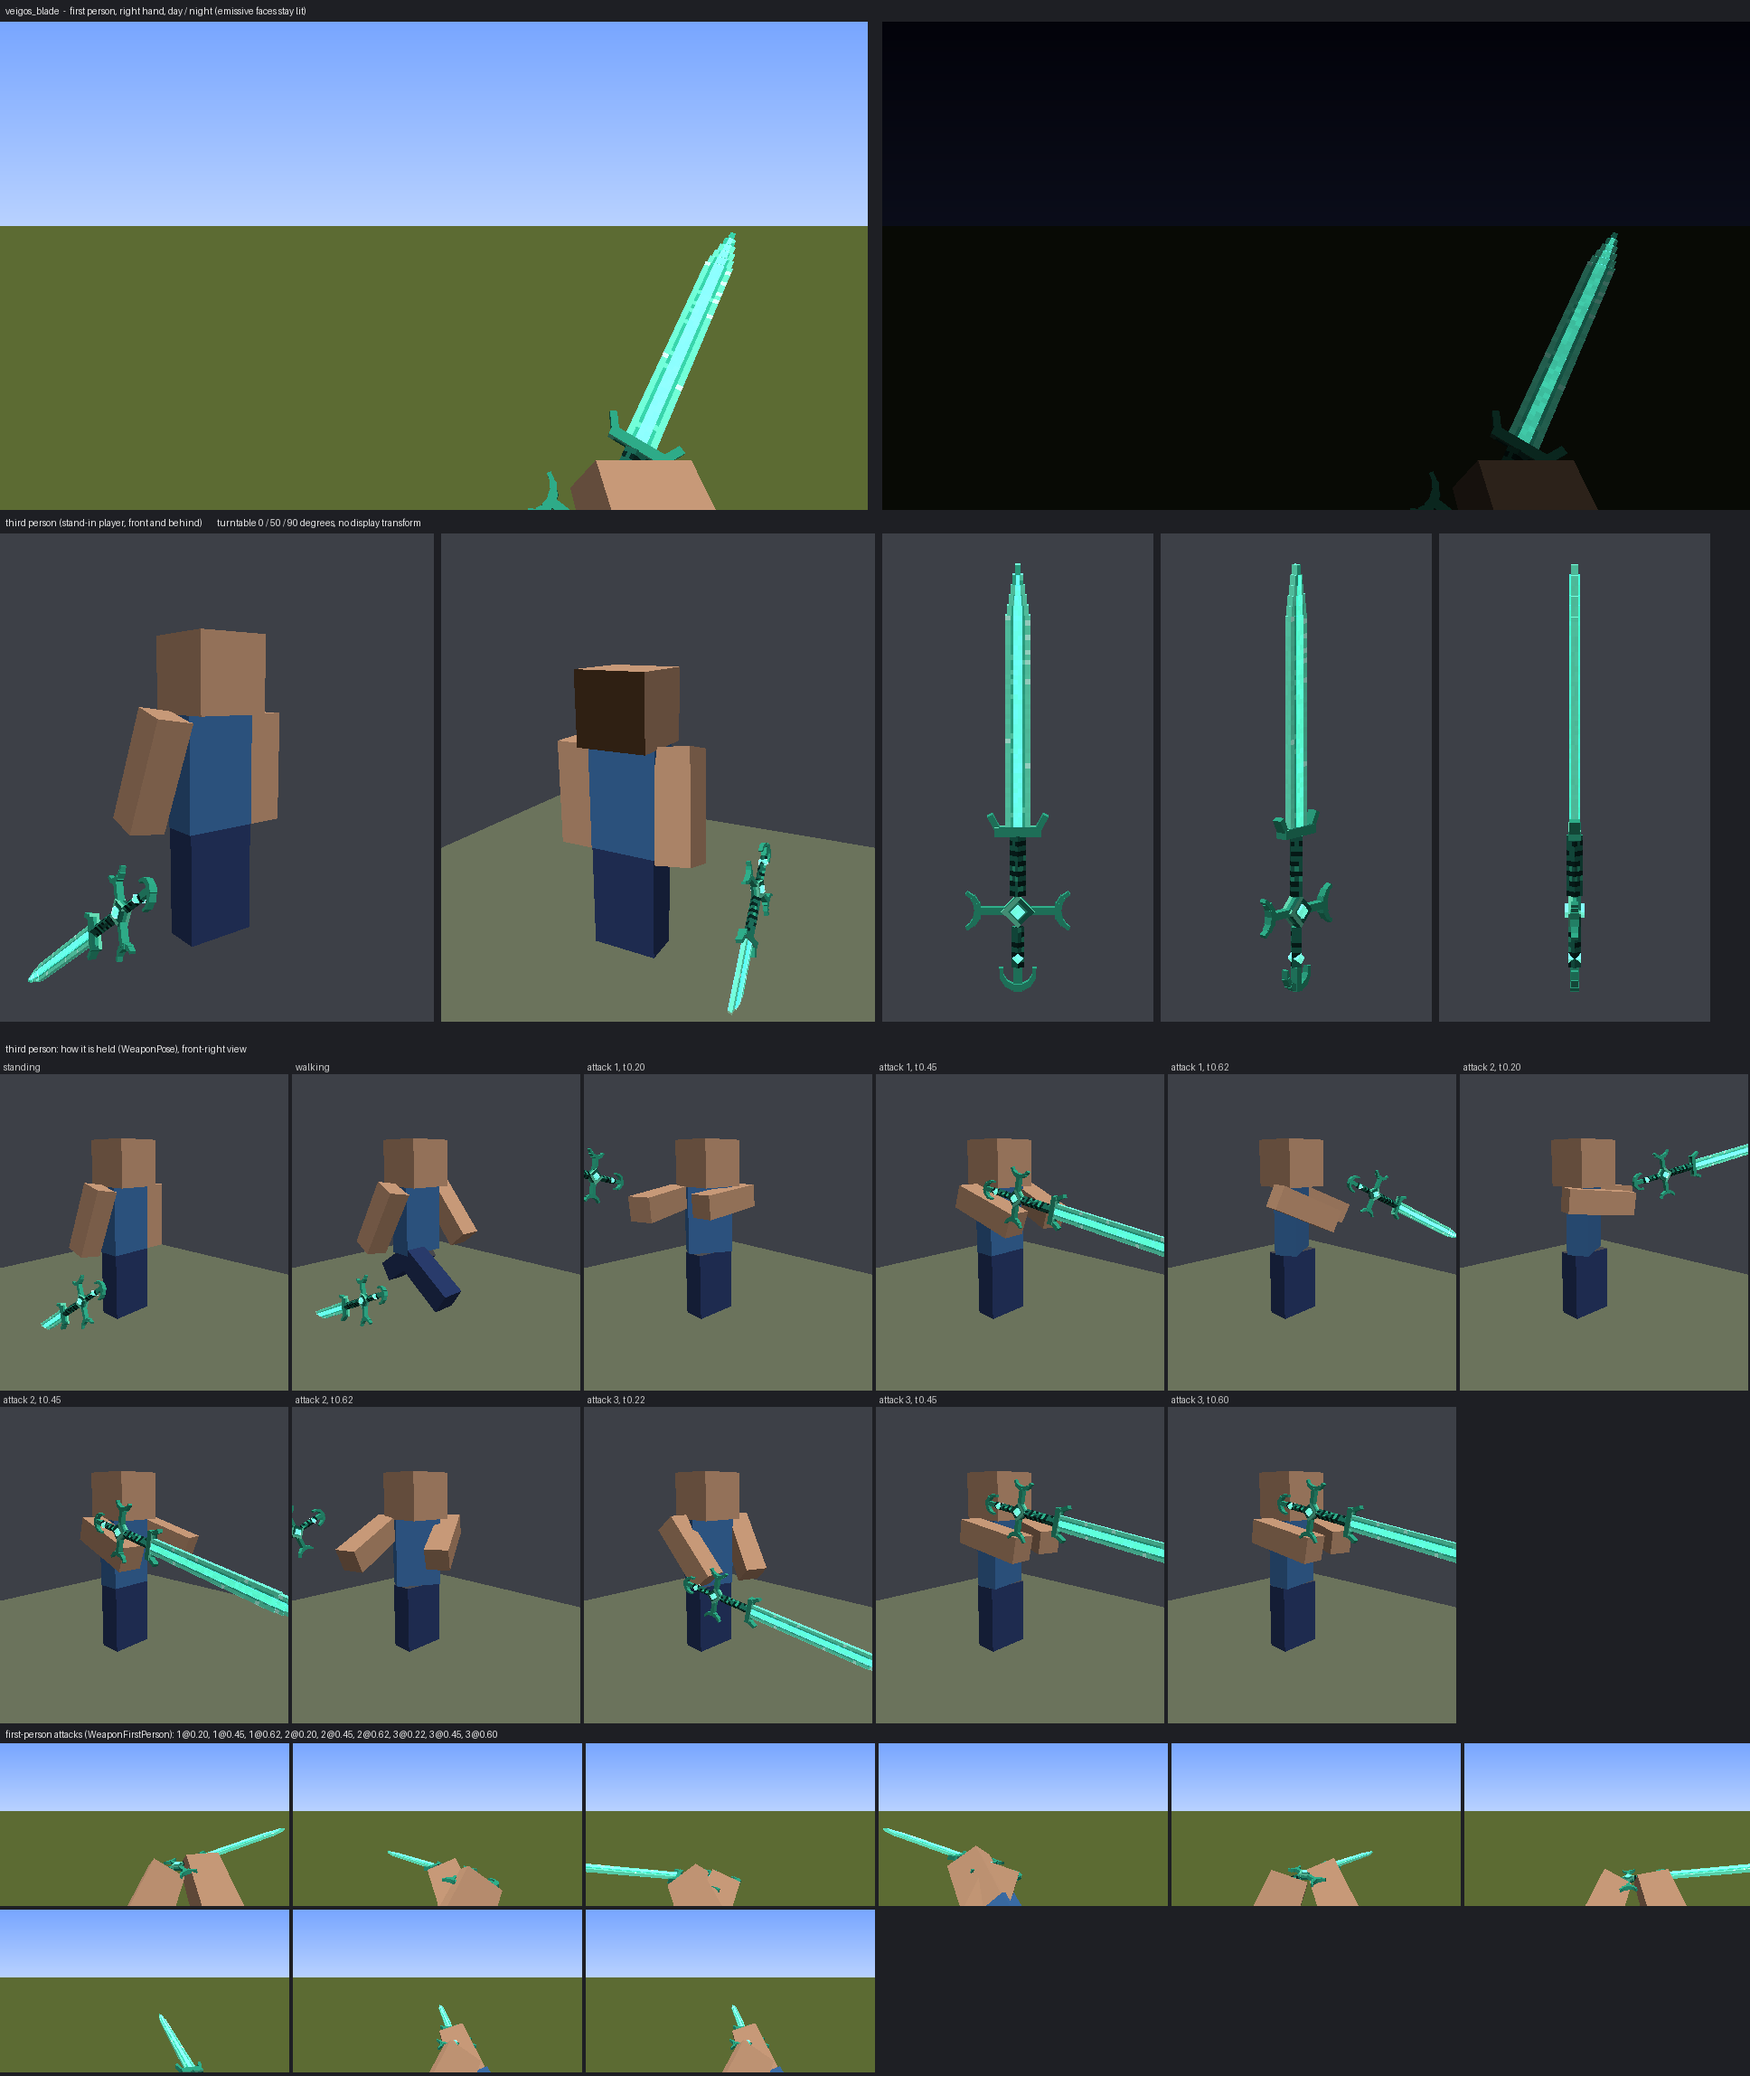
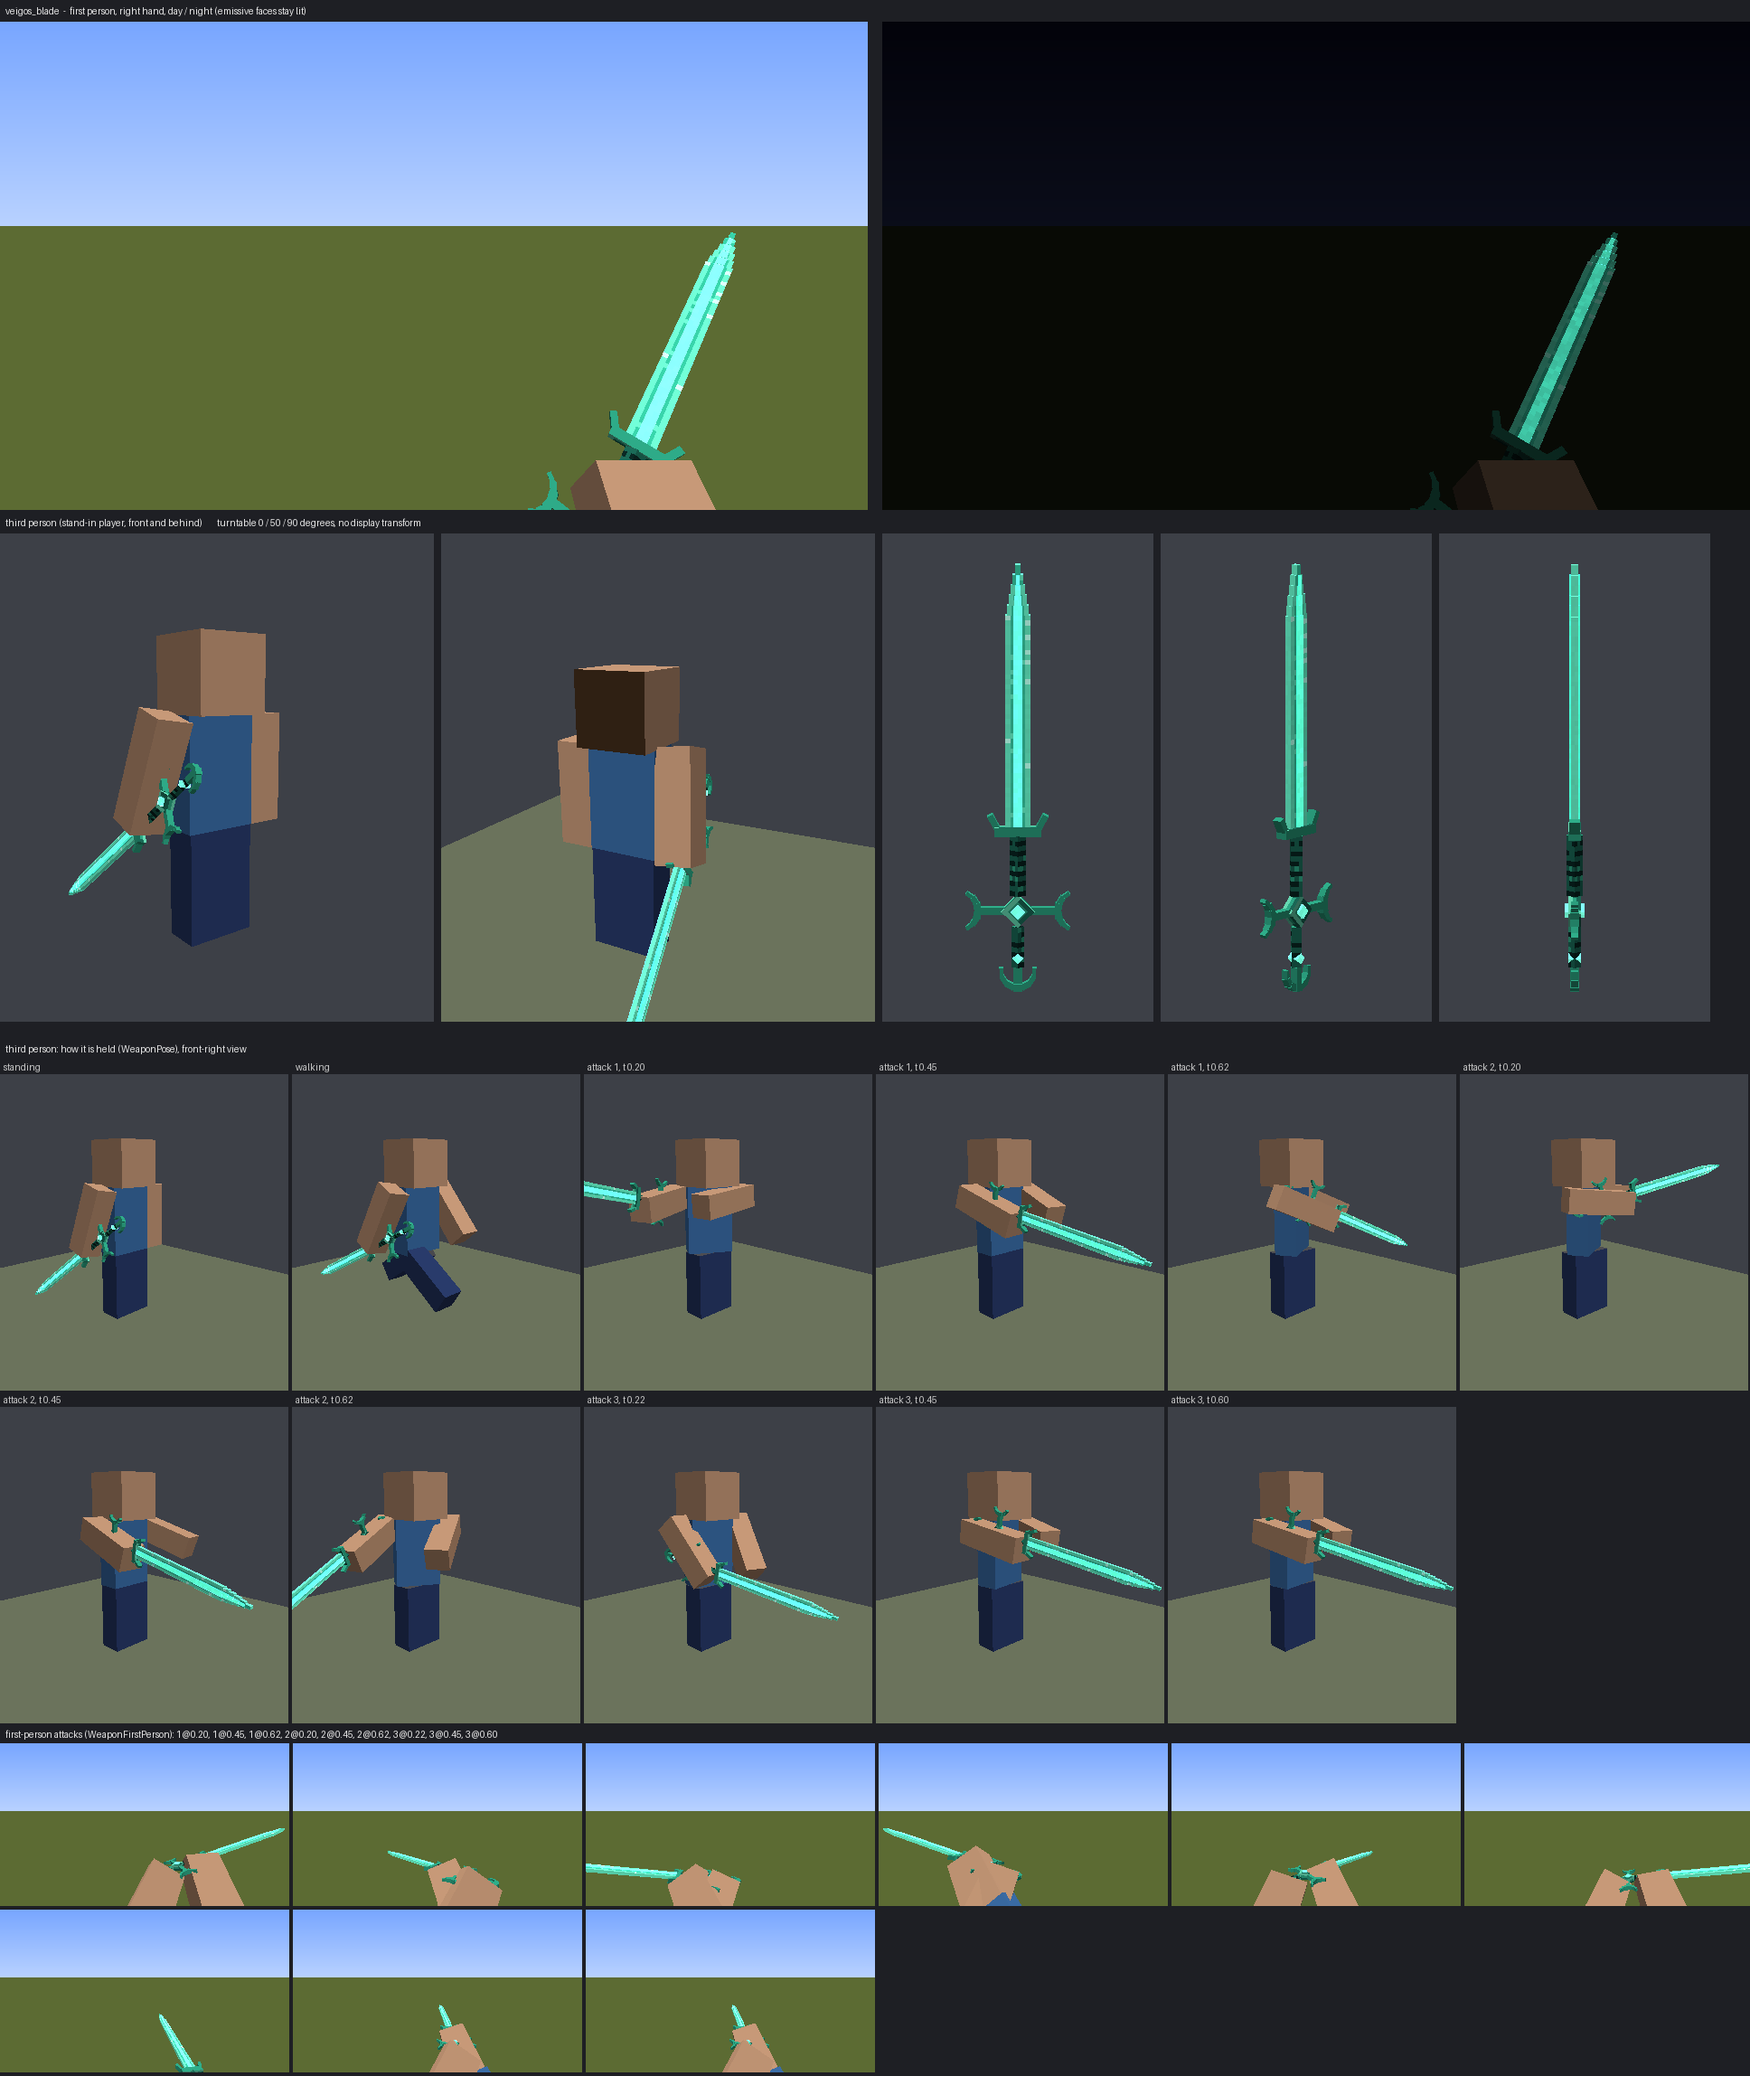
art: hold the 3D weapons in the fist -- the grip offset was turned in the wrong order
upright_handheld turned the grip's offset with a model part's rotation (X first), but
ItemTransform applies Z first. Veigo's grip landed 10 px from the fist in third person, so the
sword floated beside the hand (Sanchit's test, 2026-10-07). Now 1.7 px, as close as vanilla's
own sword handle (1.5 px).

diff --git a/tools/generate-combat-models.py b/tools/generate-combat-models.py
@@ -105,6 +105,13 @@ def mat_rotation(rot):
     return lambda v: rz_(ry_(rx_(v)))
 
 
+def item_rotation(rot):
+    """ItemTransform's rotation, Rx . Ry . Rz: Z is applied first, the other way round from a
+    model part's mat_rotation."""
+    fx, fy, fz = (mat_rotation(r) for r in ((rot[0], 0, 0), (0, rot[1], 0), (0, 0, rot[2])))
+    return lambda v: fx(fy(fz(v)))
+
+
 # --- Materials and painting -----------------------------------------------------------------
 FACE_AXES = {  # face -> (axis along u, axis along v): which box dimensions its texture spans
     'north': (0, 1), 'south': (0, 1), 'east': (2, 1), 'west': (2, 1), 'up': (0, 2), 'down': (0, 2),
@@ -384,7 +391,7 @@ def upright_handheld(grip, scale_tp=0.85, scale_fp=0.68):
     out = {}
     for ctx, (r_, t, sc) in {'thirdperson': ([0, -90, 55], [0, 4.0, 0.5], scale_tp),
                              'firstperson': ([0, -90, 25], [1.13, 3.2, 1.13], scale_fp)}.items():
-        moved = mat_rotation(r_)(shift)
+        moved = item_rotation(r_)(shift)
         tr = [round(max(-80, min(80, t[i] + sc * moved[i])), 2) for i in range(3)]
         # The left hand takes the same values: ItemTransform mirrors them for that hand.
         out[ctx + '_righthand'] = out[ctx + '_lefthand'] = {
